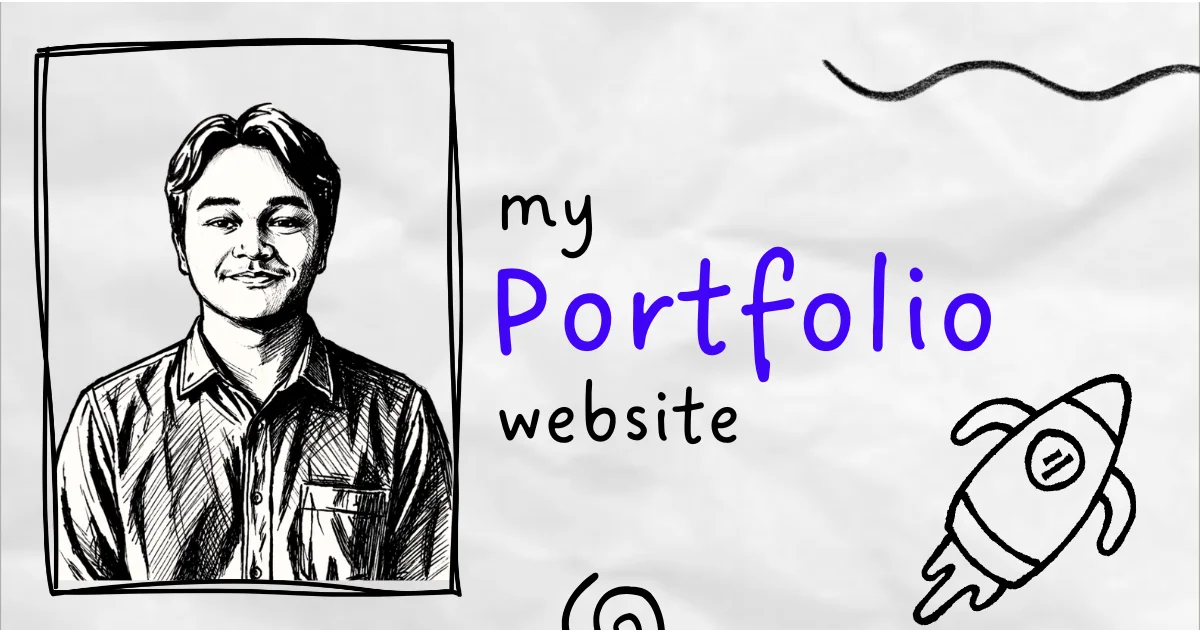
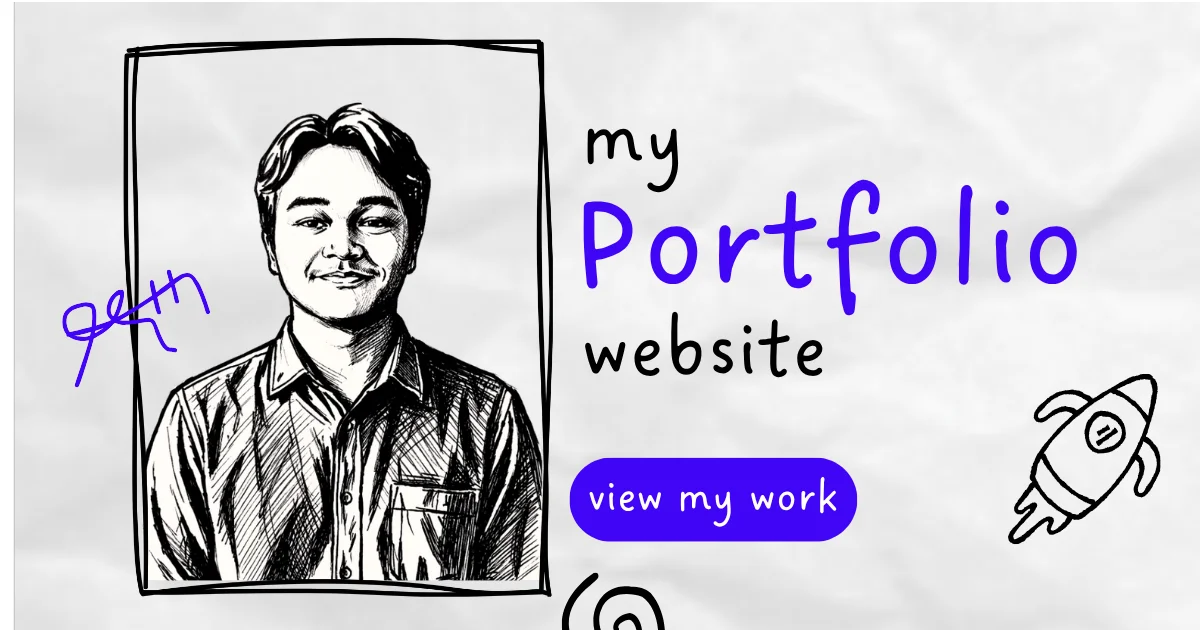
mengganti opengraph image, bahasa detail proyek ke bahasa inggris

diff --git a/data/website.js b/data/website.js
@@ -14,44 +14,44 @@ export const Website = [
     projectUrl: "https://maxsten.vercel.app",
 
     shortDescription:
-      "Self-order dan queue management platform untuk membantu UMKM mengelola pesanan dengan lebih terstruktur.",
+      "A self-order and queue management platform to help SMEs manage orders in a more structured way.",
 
     description:
-      "Maxsten adalah aplikasi pemesanan mandiri berbasis QR Code yang dirancang untuk membantu warung, kafe, dan UMKM F&B mengelola pesanan secara lebih terstruktur.",
+      "Maxsten is a QR Code-based self-ordering application designed to help food stalls, cafes, and F&B SMEs manage their orders in a more structured manner.",
 
     problem: [
-      "Pesanan dapat terlewat ketika banyak pelanggan datang secara bersamaan.",
-      "Penjual harus mengingat banyak pesanan dalam waktu yang sama.",
-      "Pelanggan tidak selalu mengetahui perkembangan pesanannya.",
+      "Orders can be missed when many customers arrive at the same time.",
+      "Sellers have to remember multiple orders simultaneously.",
+      "Customers are not always aware of their order's progress.",
     ],
 
     solution:
-      "Maxsten memindahkan proses pemesanan langsung kepada pelanggan. Pelanggan cukup memindai QR Code, memilih produk, dan mengirim pesanan tanpa perlu membuat akun.",
+      "Maxsten shifts the ordering process directly to the customers. Customers simply scan a QR Code, select products, and submit their orders without needing to create an account.",
 
     features: [
       {
         number: "01",
         title: "QR Self-Order",
         description:
-          "Pelanggan dapat melakukan pemesanan langsung melalui smartphone tanpa perlu menginstal aplikasi.",
+          "Customers can place orders directly through their smartphones without installing an application.",
       },
       {
         number: "02",
         title: "Real-time Queue",
         description:
-          "Pesanan dapat dipantau berdasarkan status sehingga penjual dapat melihat antrean yang sedang berjalan.",
+          "Orders can be monitored based on their status, allowing sellers to view the ongoing queue.",
       },
       {
         number: "03",
         title: "Product Management",
         description:
-          "Penjual dapat mengelola produk, harga, varian, dan add-on.",
+          "Sellers can manage products, prices, variants, and add-ons.",
       },
       {
         number: "04",
         title: "Order Status",
         description:
-          "Status pesanan dapat diperbarui sehingga pelanggan mengetahui perkembangan pesanannya.",
+          "Order statuses can be updated so customers know the progress of their orders.",
       },
     ],
 
@@ -72,24 +72,24 @@ export const Website = [
         number: "01",
         title: "Concurrent Orders",
         description:
-          "Menangani kemungkinan beberapa pelanggan melakukan pemesanan pada waktu yang hampir bersamaan.",
+          "Handling the possibility of multiple customers placing orders at almost the same time.",
       },
       {
         number: "02",
         title: "Real-time Updates",
         description:
-          "Menyinkronkan perubahan status pesanan antara pelanggan dan penjual tanpa refresh manual.",
+          "Synchronizing order status changes between customers and sellers without manual refreshes.",
       },
       {
         number: "03",
         title: "Simple Ordering Flow",
         description:
-          "Membuat alur pemesanan yang mudah digunakan tanpa mengharuskan pelanggan membuat akun.",
+          "Creating an easy-to-use ordering flow without requiring customers to create an account.",
       },
     ],
 
     learning:
-      "Project ini memperdalam pengalaman dalam membangun aplikasi full-stack dari frontend hingga backend, termasuk database, validasi, autentikasi, real-time communication, dan state management.",
+      "This project deepened my experience in building a full-stack application from frontend to backend, including database design, validation, authentication, real-time communication, and state management.",
   },
 
   {
@@ -107,43 +107,43 @@ export const Website = [
     projectUrl: "https://rnee-demo.vercel.app",
 
     shortDescription:
-      "Website brand parfum dengan pendekatan visual minimal dan premium.",
+      "A perfume brand website with a minimal and premium visual approach.",
 
     description:
-      "Rnee merupakan konsep website untuk brand parfum yang berfokus pada visual, storytelling, dan presentasi produk.",
+      "Rnee is a website concept for a perfume brand focusing on visuals, storytelling, and product presentation.",
 
     problem: [
-      "Produk fragrance membutuhkan presentasi visual yang mampu menyampaikan karakter brand.",
-      "Informasi produk perlu disampaikan tanpa membuat halaman terasa terlalu padat.",
+      "Fragrance products require visual presentations capable of conveying the brand's character.",
+      "Product information needs to be conveyed without making the page feel cluttered.",
     ],
 
     solution:
-      "Website dirancang dengan pendekatan minimal, typography yang kuat, dan visual yang memberikan ruang bagi produk untuk menjadi fokus utama.",
+      "The website is designed with a minimalist approach, strong typography, and visuals that give room for the product to be the main focus.",
 
     features: [
       {
         number: "01",
         title: "Product Showcase",
         description:
-          "Produk ditampilkan dengan layout yang memberikan fokus pada visual dan identitas fragrance.",
+          "Products are displayed with a layout that focuses on the visual and identity of the fragrance.",
       },
       {
         number: "02",
         title: "Brand Storytelling",
         description:
-          "Konten disusun untuk membangun karakter dan suasana brand.",
+          "Content is structured to build the character and atmosphere of the brand.",
       },
       {
         number: "03",
         title: "Responsive Design",
         description:
-          "Layout disesuaikan untuk desktop maupun perangkat mobile.",
+          "The layout is optimized for both desktop and mobile devices.",
       },
       {
         number: "04",
         title: "Micro Interaction",
         description:
-          "Animasi digunakan untuk memberikan pengalaman browsing yang lebih hidup.",
+          "Animations are used to provide a livelier browsing experience.",
       },
     ],
 
@@ -154,18 +154,18 @@ export const Website = [
         number: "01",
         title: "Visual Balance",
         description:
-          "Menjaga keseimbangan antara typography, whitespace, gambar, dan elemen dekoratif.",
+          "Maintaining the balance between typography, whitespace, images, and decorative elements.",
       },
       {
         number: "02",
         title: "Responsive Layout",
         description:
-          "Memastikan visual tetap memiliki karakter yang sama pada berbagai ukuran layar.",
+          "Ensuring the visuals retain the same character across various screen sizes.",
       },
     ],
 
     learning:
-      "Project ini membantu memperdalam kemampuan dalam membangun website yang mengutamakan visual design, typography, responsive layout, dan micro-interactions.",
+      "This project helped deepen my skills in building websites that prioritize visual design, typography, responsive layouts, and micro-interactions.",
   },
 
   {
@@ -183,43 +183,43 @@ export const Website = [
     projectUrl: "https://satnight-demo.vercel.app",
 
     shortDescription:
-      "Website rental kamera yang menyederhanakan proses memilih kamera dan mengajukan penyewaan.",
+      "A camera rental website that simplifies the process of choosing a camera and requesting a rental.",
 
     description:
-      "Satnight merupakan website rental kamera yang dirancang untuk menyederhanakan proses dari memilih perangkat hingga mengajukan penyewaan. Website menyediakan katalog kamera yang lebih terstruktur, informasi rental yang lengkap, serta form rental yang mengumpulkan data pelanggan sebelum diteruskan langsung ke WhatsApp admin.",
+      "Satnight is a camera rental website designed to simplify the process from selecting a device to submitting a rental request. The website provides a structured camera catalog, comprehensive rental information, and a rental form that collects customer data before forwarding it directly to the admin's WhatsApp.",
 
     problem: [
-      "Katalog kamera yang disajikan secara manual dapat membuat pelanggan kesulitan menemukan perangkat yang sesuai karena harus melihat produk satu per satu.",
-      "Proses penyewaan membutuhkan banyak tanya jawab antara pelanggan dan admin untuk mengetahui harga, jaminan, dan informasi rental lainnya.",
+      "A manually presented camera catalog can make it difficult for customers to find the right device because they have to browse products one by one.",
+      "The rental process requires a lot of back-and-forth Q&A between the customer and the admin regarding pricing, guarantees, and other rental information.",
     ],
 
     solution:
-      "Satnight menyediakan katalog kamera yang lebih terstruktur sehingga pelanggan dapat melihat dan memilih perangkat dengan lebih mudah. Informasi harga, jaminan, dan ketentuan rental tersedia langsung di website. Setelah menemukan kamera yang diinginkan, pelanggan dapat mengisi form rental dan seluruh data yang dibutuhkan akan otomatis disusun dan dikirim ke WhatsApp admin sehingga mengurangi kebutuhan tanya jawab berulang.",
+      "Satnight provides a more structured camera catalog, making it easier for customers to view and select devices. Pricing, guarantees, and rental terms are available directly on the website. Once a customer finds the desired camera, they can fill out the rental form, and all necessary data is automatically compiled and sent to the admin's WhatsApp, reducing the need for repetitive Q&A.",
 
     features: [
       {
         number: "01",
         title: "Structured Camera Catalog",
         description:
-          "Menampilkan kamera dalam katalog yang terstruktur sehingga pelanggan dapat menjelajahi pilihan perangkat dengan lebih mudah.",
+          "Displays cameras in a structured catalog, allowing customers to easily explore device options.",
       },
       {
         number: "02",
         title: "Rental Information",
         description:
-          "Informasi harga, jaminan, dan ketentuan rental tersedia langsung sehingga pelanggan dapat memahami detail penyewaan sebelum menghubungi admin.",
+          "Pricing, guarantees, and rental terms are readily available so customers can understand the rental details before contacting the admin.",
       },
       {
         number: "03",
         title: "Rental Form",
         description:
-          "Form rental mengumpulkan data yang dibutuhkan pelanggan untuk mengajukan penyewaan.",
+          "The rental form collects the necessary data from customers to process a rental request.",
       },
       {
         number: "04",
         title: "WhatsApp Integration",
         description:
-          "Data rental otomatis disusun menjadi pesan WhatsApp yang lengkap dan dikirim kepada admin.",
+          "Rental data is automatically compiled into a complete WhatsApp message and sent to the admin.",
       },
     ],
 
@@ -230,24 +230,24 @@ export const Website = [
         number: "01",
         title: "Product Presentation",
         description:
-          "Mengubah katalog kamera menjadi pengalaman browsing produk yang terstruktur tanpa membuat halaman terasa penuh.",
+          "Transforming a camera catalog into a structured product browsing experience without making the page feel cluttered.",
       },
       {
         number: "02",
         title: "Rental Form Flow",
         description:
-          "Merancang form yang dapat mengumpulkan informasi penting dari pelanggan sebelum data diteruskan kepada admin.",
+          "Designing a form capable of collecting vital information from customers before forwarding the data to the admin.",
       },
       {
         number: "03",
         title: "WhatsApp Integration",
         description:
-          "Menyusun seluruh data dari form menjadi pesan WhatsApp yang lengkap sehingga admin tidak perlu menanyakan informasi yang sudah diberikan pelanggan.",
+          "Compiling all form data into a complete WhatsApp message so the admin doesn't need to ask for information the customer has already provided.",
       },
     ],
 
     learning:
-      "Project ini memperdalam pengalaman menggunakan React dan membangun website rental yang menggabungkan katalog produk, informasi penyewaan, form pengajuan, dan integrasi WhatsApp dalam satu alur yang sederhana.",
+      "This project deepened my experience in using React and building a rental website that combines a product catalog, rental information, submission form, and WhatsApp integration into one simple flow.",
   },
 
   {
@@ -265,43 +265,43 @@ export const Website = [
     projectUrl: "https://munivy.vercel.app",
 
     shortDescription:
-      "Website rental iPhone yang menyederhanakan proses memilih perangkat dan mengajukan penyewaan.",
+      "An iPhone rental website that simplifies the process of selecting a device and requesting a rental.",
 
     description:
-      "Munivy merupakan website rental iPhone yang dirancang untuk menyederhanakan proses dari memilih perangkat hingga mengajukan penyewaan. Website menggantikan katalog berbasis poster di Google Drive dengan katalog yang lebih terstruktur, sekaligus menyediakan form rental yang mengumpulkan informasi penting sebelum diteruskan langsung ke WhatsApp admin.",
+      "Munivy is an iPhone rental website designed to simplify the process from selecting a device to submitting a rental request. The website replaces a poster-based Google Drive catalog with a more structured one, while also providing a rental form that collects essential information before forwarding it directly to the admin's WhatsApp.",
 
     problem: [
-      "Katalog produk sebelumnya disimpan di Google Drive dalam bentuk poster atau gambar daftar produk, sehingga pelanggan harus melihat katalog satu per satu dan tidak dapat dengan mudah mencari perangkat yang diinginkan.",
-      "Proses penyewaan membutuhkan banyak tanya jawab antara pelanggan dan admin, seperti menanyakan harga, jaminan, metode pengambilan, dan detail penyewaan lainnya.",
+      "The previous product catalog was stored in Google Drive as posters or product list images, meaning customers had to view the catalog one by one and couldn't easily search for their desired device.",
+      "The rental process required extensive Q&A between customers and the admin, such as asking for prices, guarantees, pickup methods, and other rental details.",
     ],
 
     solution:
-      "Munivy menyediakan katalog perangkat yang lebih terstruktur sehingga pelanggan dapat melihat dan memilih iPhone dengan lebih mudah. Informasi rental juga tersedia langsung di website, sementara form rental mengumpulkan data yang dibutuhkan, termasuk metode pengambilan seperti mengambil langsung di toko atau COD. Jika pelanggan memilih COD, mereka dapat memasukkan lokasi yang diminta. Setelah form selesai, seluruh data tersebut otomatis disusun dan dikirim ke WhatsApp admin sehingga pelanggan tidak perlu melakukan tanya jawab berulang.",
+      "Munivy provides a more structured device catalog so customers can view and select iPhones more easily. Rental information is also directly available on the website, while the rental form collects necessary data, including pickup methods like in-store pickup or Cash on Delivery (COD). If the customer chooses COD, they can enter their requested location. Once the form is complete, all data is automatically compiled and sent to the admin's WhatsApp, eliminating repetitive Q&A.",
 
     features: [
       {
         number: "01",
         title: "Structured iPhone Catalog",
         description:
-          "Mengubah katalog berbasis poster di Google Drive menjadi katalog yang lebih terstruktur dan mudah dijelajahi.",
+          "Transforms a poster-based Google Drive catalog into a more structured and easy-to-navigate catalog.",
       },
       {
         number: "02",
         title: "Rental Information",
         description:
-          "Informasi harga, jaminan, dan ketentuan rental tersedia langsung sehingga pelanggan dapat memahami detail penyewaan sebelum menghubungi admin.",
+          "Pricing, guarantees, and rental terms are readily available so customers can understand the rental details before contacting the admin.",
       },
       {
         number: "03",
         title: "Rental Form",
         description:
-          "Form rental mengumpulkan data yang dibutuhkan, termasuk perangkat, metode pengambilan, dan informasi penyewaan lainnya.",
+          "The rental form collects necessary data, including the device, pickup method, and other rental information.",
       },
       {
         number: "04",
         title: "WhatsApp Integration",
         description:
-          "Data rental otomatis disusun menjadi pesan WhatsApp yang lengkap dan dikirim kepada admin, termasuk lokasi yang diminta ketika pelanggan memilih metode COD.",
+          "Rental data is automatically compiled into a complete WhatsApp message and sent to the admin, including the requested location if the customer chooses the COD method.",
       },
     ],
 
@@ -312,23 +312,23 @@ export const Website = [
         number: "01",
         title: "Product Presentation",
         description:
-          "Mengubah katalog berbasis poster menjadi pengalaman browsing produk yang lebih terstruktur dan mudah digunakan.",
+          "Transforming a poster-based catalog into a more structured and user-friendly product browsing experience.",
       },
       {
         number: "02",
         title: "Rental Form Flow",
         description:
-          "Merancang form yang dapat menyesuaikan field berdasarkan metode pengambilan yang dipilih pelanggan, termasuk meminta lokasi ketika memilih COD.",
+          "Designing a form that adjusts its fields based on the customer's selected pickup method, including asking for a location when COD is selected.",
       },
       {
         number: "03",
         title: "WhatsApp Integration",
         description:
-          "Menyusun seluruh data dari form menjadi pesan WhatsApp yang lengkap sehingga admin tidak perlu menanyakan informasi yang sudah diberikan pelanggan.",
+          "Compiling all form data into a complete WhatsApp message so the admin doesn't need to ask for information the customer has already provided.",
       },
     ],
 
     learning:
-      "Project ini memperdalam pengalaman menggunakan Next.js dan membangun website bisnis yang tidak hanya berfokus pada visual, tetapi juga menyederhanakan alur pengguna dari memilih perangkat hingga mengajukan rental.",
+      "This project deepened my experience with Next.js and building a business website that not only focuses on visuals but also simplifies the user flow from selecting a device to submitting a rental request.",
   },
 ];
